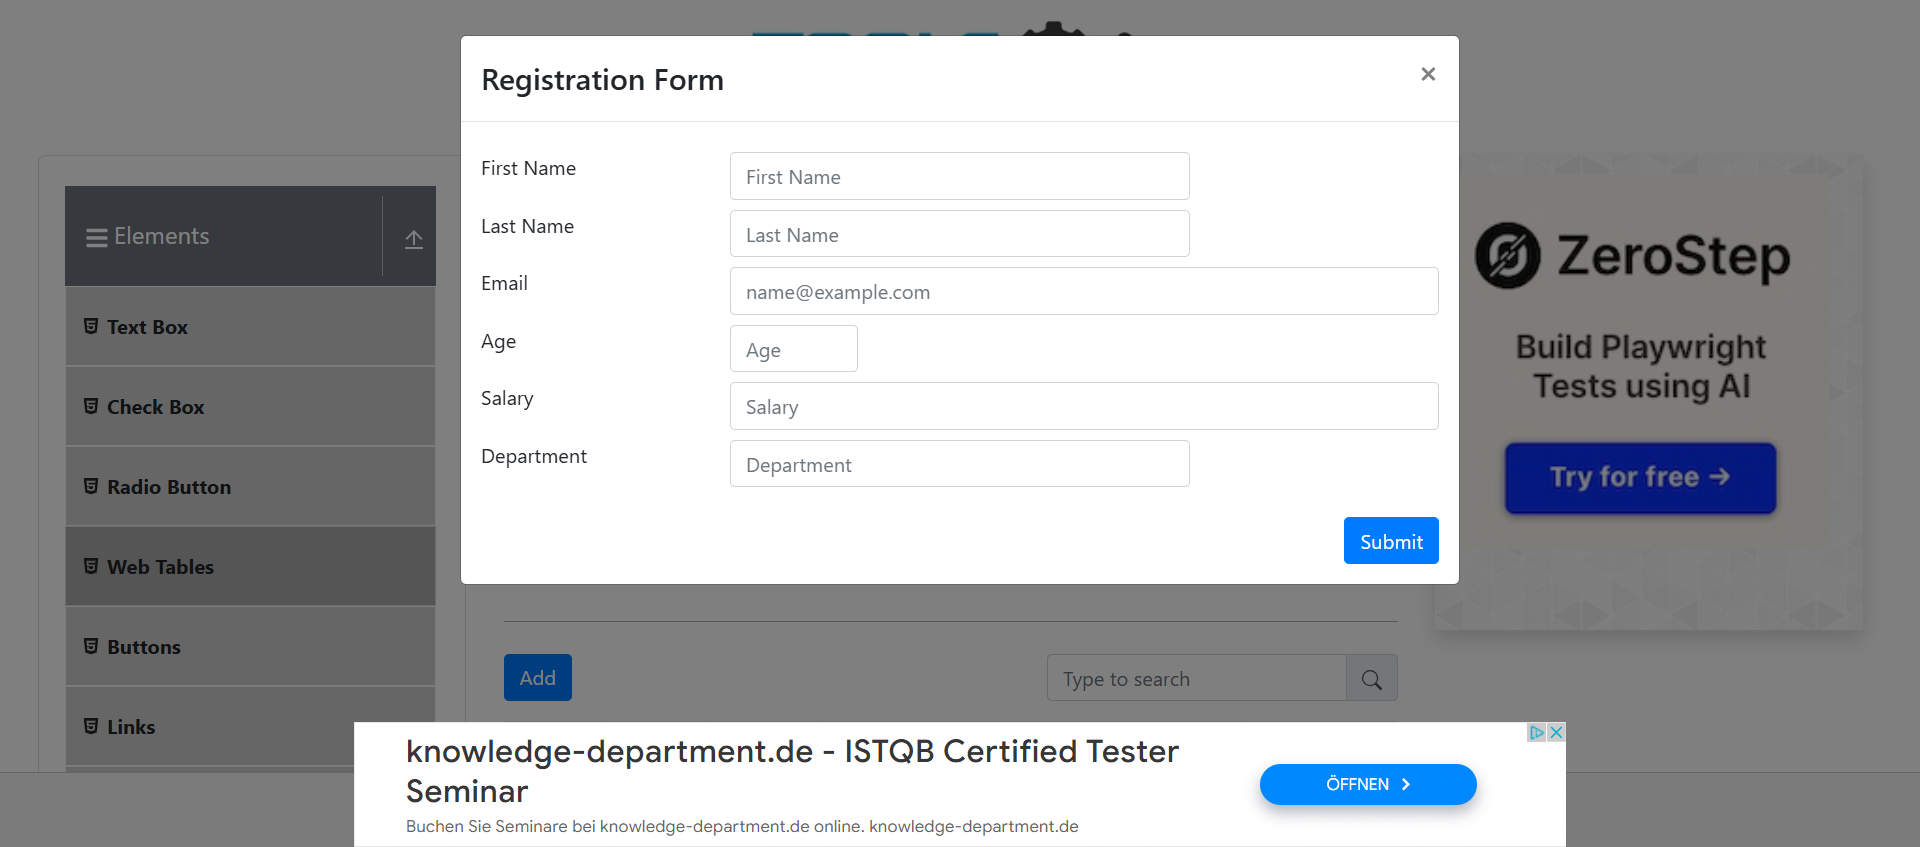
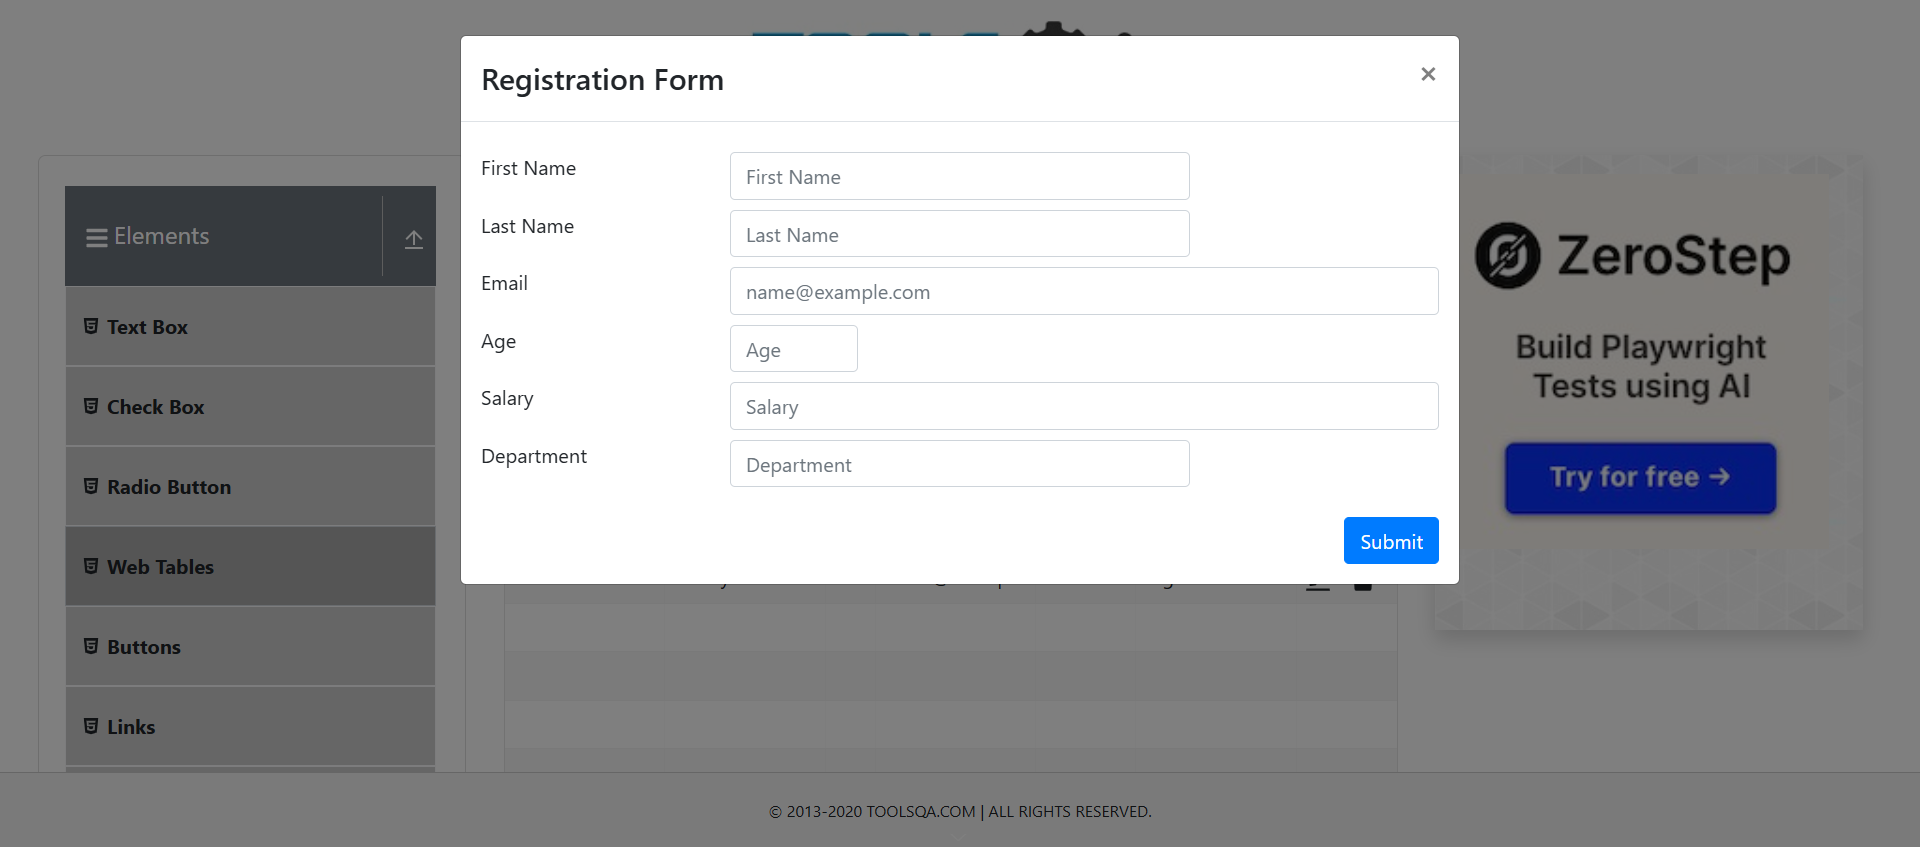
edit and delete is now available

Changed region(s): [[0.1875, 0.7674, 0.8125, 1.0]]

diff --git a/OlehSeleniumTest/Program.cs b/OlehSeleniumTest/Program.cs
@@ -53,6 +53,19 @@ public class Program
         // Need to be hided, because ads are displayed on the half of the screen!
         HideAds(driver);
         TakeScreenshot(driver, "step_5_row_verified");
+
+        // Edit the user's salary.
+        int newSalary = new Random().Next(50_000, 150_000);
+        user.Salary = newSalary.ToString();
+        ClickEditButton(driver, user.Email);
+        EditUserSalary(driver, newSalary);
+        CustomCommands.WaitForTableRowData(driver, user);
+        TakeScreenshot(driver, "step_6_updated_salary");
+
+        // Delete user
+        ClickDeleteButton(driver, user.Email);
+        CustomCommands.WaitForTableRowDeletion(driver, user.Email);
+        TakeScreenshot(driver, "step_7_delete_user");
     }
 
     private static void TakeScreenshot(IWebDriver driver, string stepName)
@@ -73,5 +86,57 @@ public class Program
             const elements = document.querySelectorAll('[id*=""google_ads""] , .ad, .ads, iframe, [style*=""z-index""]');
             elements.forEach(el => el.style.display = 'none');
         ");
+    }
+
+    private static void ClickEditButton(IWebDriver driver, string email)
+    {
+        var rows = driver.FindElements(By.CssSelector(".rt-tbody .rt-tr-group"));
+
+        foreach (var row in rows)
+        {
+            if (row.Text.Contains(email, StringComparison.OrdinalIgnoreCase))
+            {
+                var editButton = row.FindElement(By.CssSelector("span[title='Edit']"));
+                editButton.Click();
+
+                return;
+            }
+        }
+
+        throw new Exception("Edit button for user not found!");
+    }
+
+    private static void EditUserSalary(IWebDriver driver, int newSalary)
+    {
+        var wait = new WebDriverWait(driver, TimeSpan.FromSeconds(5));
+        wait.Until(d => d.FindElement(By.Id("salary")).Displayed);
+
+        var salaryInput = driver.FindElement(By.Id("salary"));
+        salaryInput.Clear();
+        salaryInput.SendKeys(newSalary.ToString());
+
+        driver.FindElement(By.Id("submit")).Click();
+    }
+
+    private static void ClickDeleteButton(IWebDriver driver, string email)
+    {
+        var rows = driver.FindElements(By.CssSelector(".rt-tbody .rt-tr-group"));
+
+        foreach (var row in rows)
+        {
+            if (row.Text.Contains(email, StringComparison.OrdinalIgnoreCase))
+            {
+                var rowText = row.Text;
+                Console.WriteLine($"User {rowText}");
+                Console.WriteLine("would be deleted!");
+
+                var deleteButton = row.FindElement(By.CssSelector("span[title='Delete']"));
+                deleteButton.Click();
+
+                return;
+            }
+        }
+
+        throw new Exception("Delete button for user not found!");
     }
 }

diff --git a/OlehSeleniumTest/Commands/CustomCommands.cs b/OlehSeleniumTest/Commands/CustomCommands.cs
@@ -42,10 +42,16 @@ namespace OlehSeleniumTest.Commands
         }
 
         public static void WaitForTableRowDeletion(
-            IWebDriver driver, string name, int timeoutInSeconds)
+            IWebDriver driver, string email, int timeoutInSeconds = 10)
         {
-            new WebDriverWait(driver, TimeSpan.FromSeconds(timeoutInSeconds))
-                .Until(d => d.FindElements(By.XPath($"//div[@class='rt-td' and text()='{name}']")).Count == 0);
+            var wait = new WebDriverWait(driver, TimeSpan.FromSeconds(timeoutInSeconds));
+
+            wait.Until(d =>
+            {
+                var rows = d.FindElements(By.CssSelector(".rt-tbody .rt-tr-group"));
+
+                return !rows.Any(row => row.Text.Contains(email, StringComparison.OrdinalIgnoreCase));
+            });
         }
     }
 }

diff --git a/OlehSeleniumTest/obj/Debug/net9.0/OlehSeleniumTest.AssemblyInfo.cs b/OlehSeleniumTest/obj/Debug/net9.0/OlehSeleniumTest.AssemblyInfo.cs
@@ -13,7 +13,7 @@ using System.Reflection;
 [assembly: System.Reflection.AssemblyCompanyAttribute("OlehSeleniumTest")]
 [assembly: System.Reflection.AssemblyConfigurationAttribute("Debug")]
 [assembly: System.Reflection.AssemblyFileVersionAttribute("1.0.0.0")]
-[assembly: System.Reflection.AssemblyInformationalVersionAttribute("1.0.0+8b2f91e556f0a27dc1afe268958dfe256464c079")]
+[assembly: System.Reflection.AssemblyInformationalVersionAttribute("1.0.0+6962addaf5a2df42aa03dd9a16ba0c050a0a1a7e")]
 [assembly: System.Reflection.AssemblyProductAttribute("OlehSeleniumTest")]
 [assembly: System.Reflection.AssemblyTitleAttribute("OlehSeleniumTest")]
 [assembly: System.Reflection.AssemblyVersionAttribute("1.0.0.0")]
